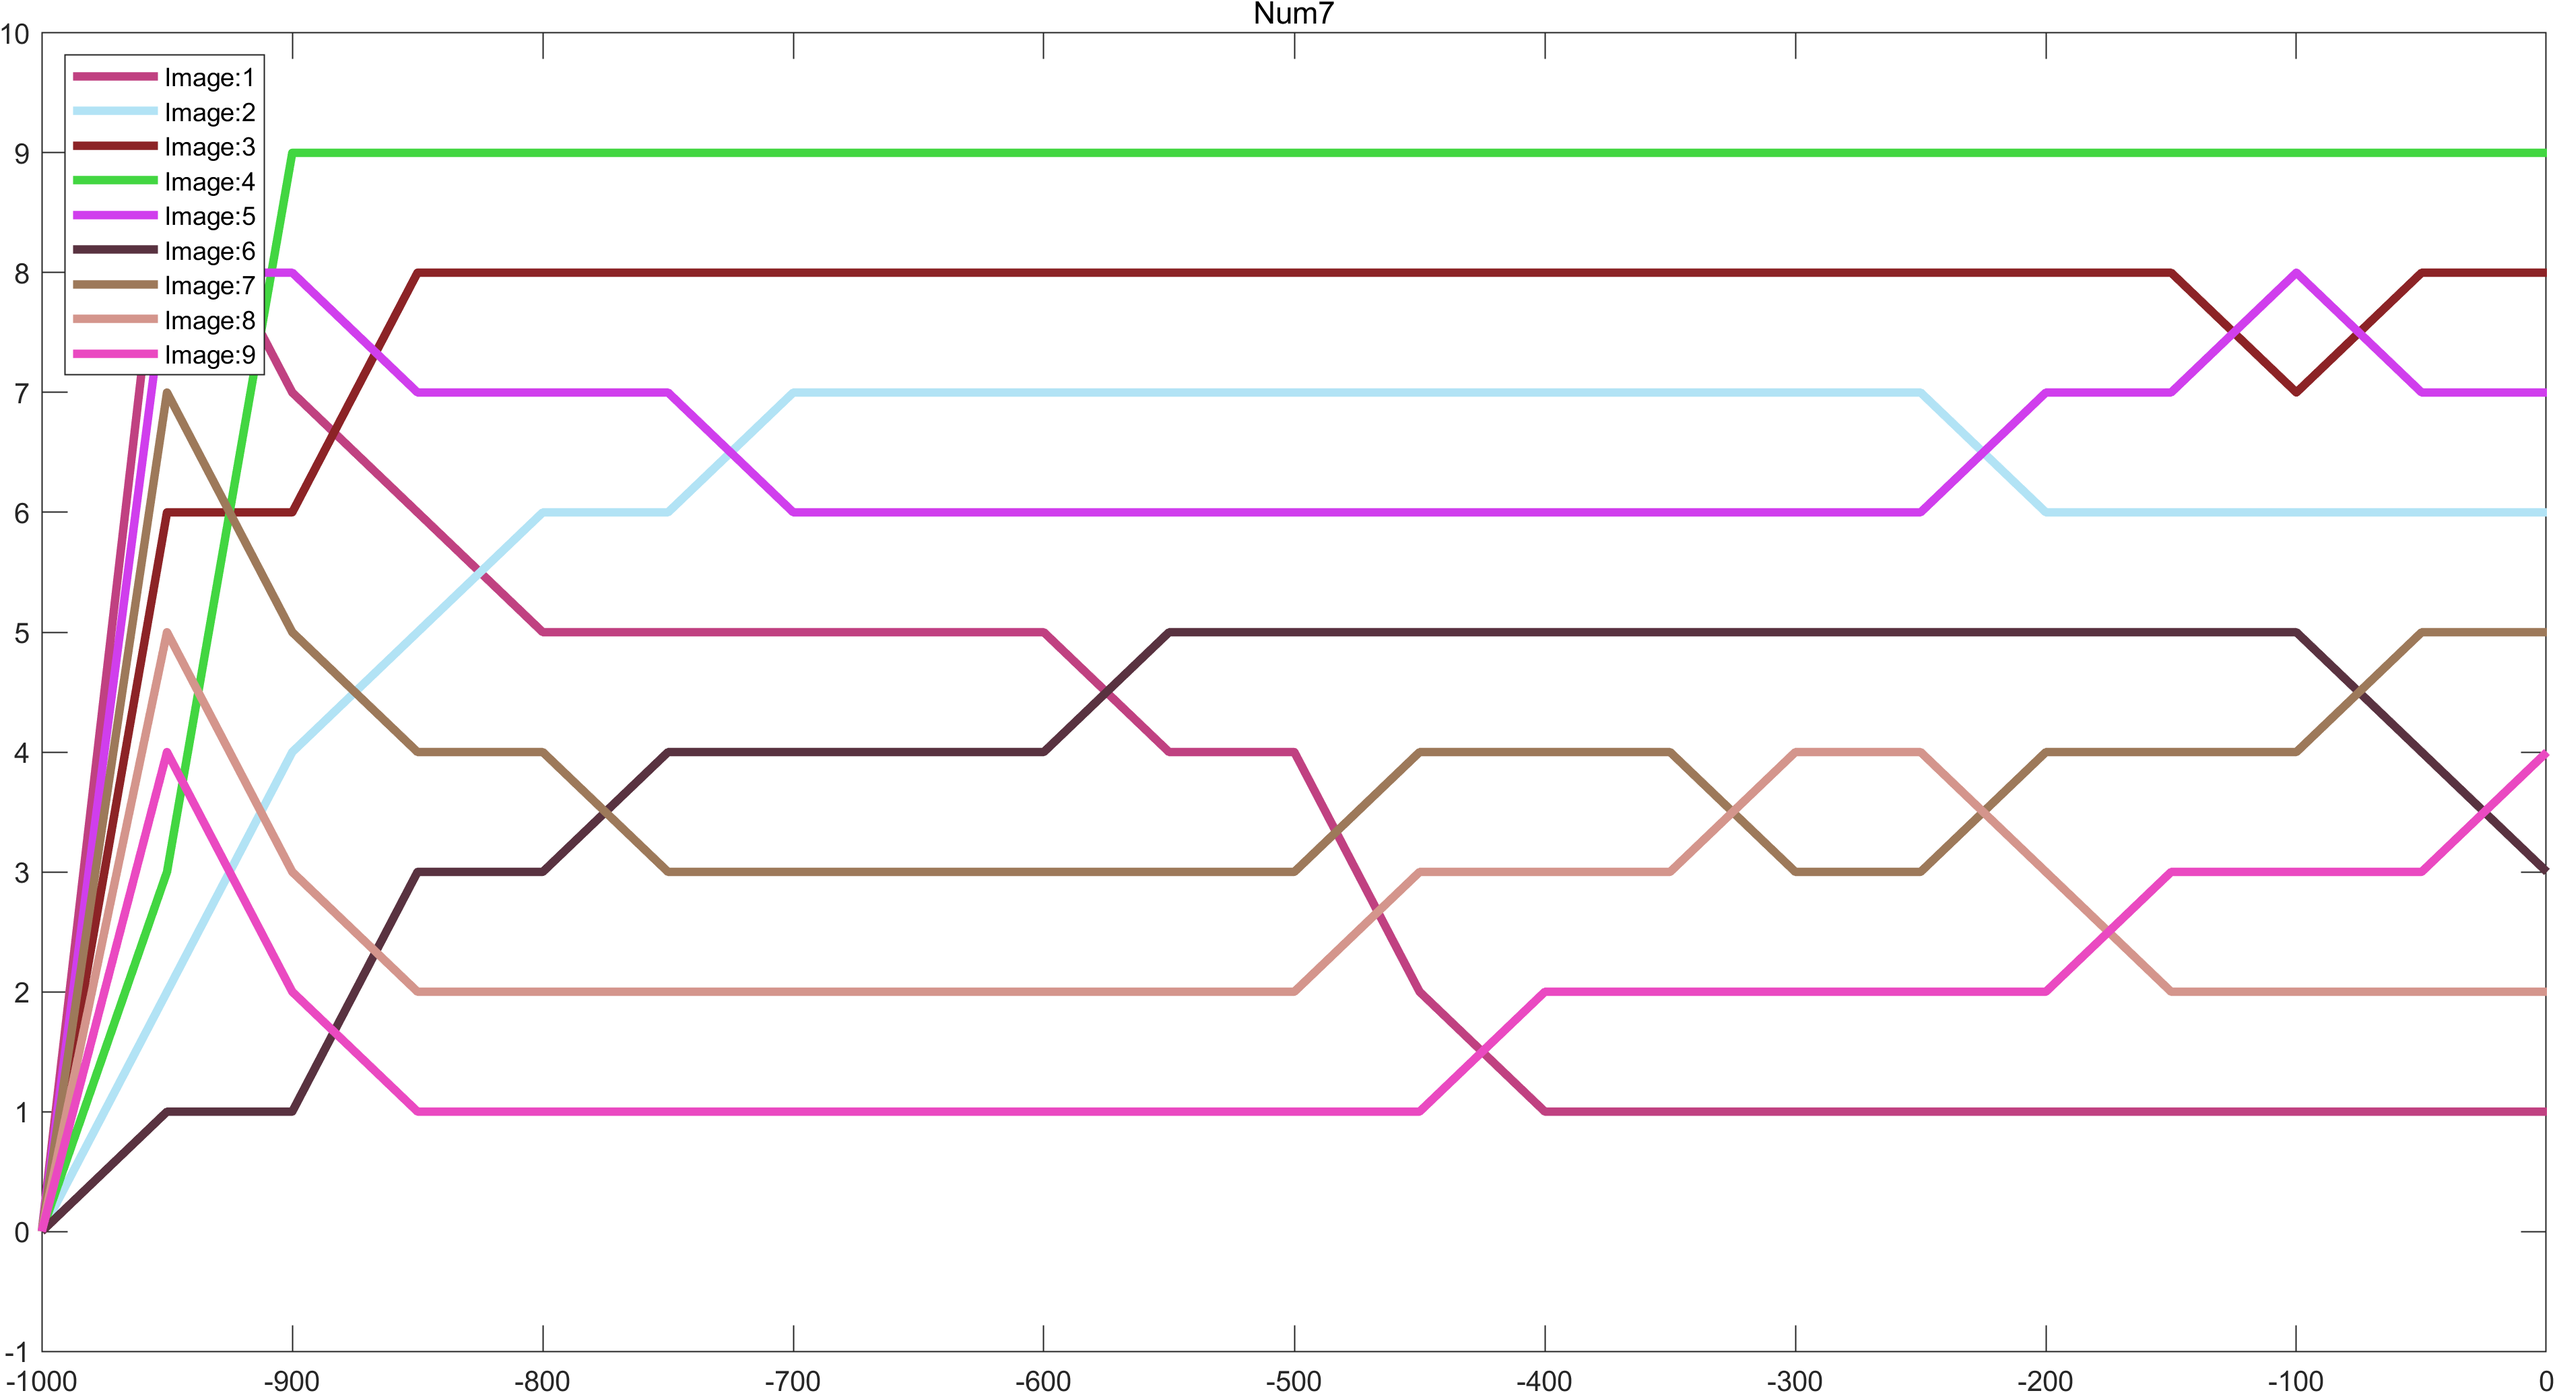
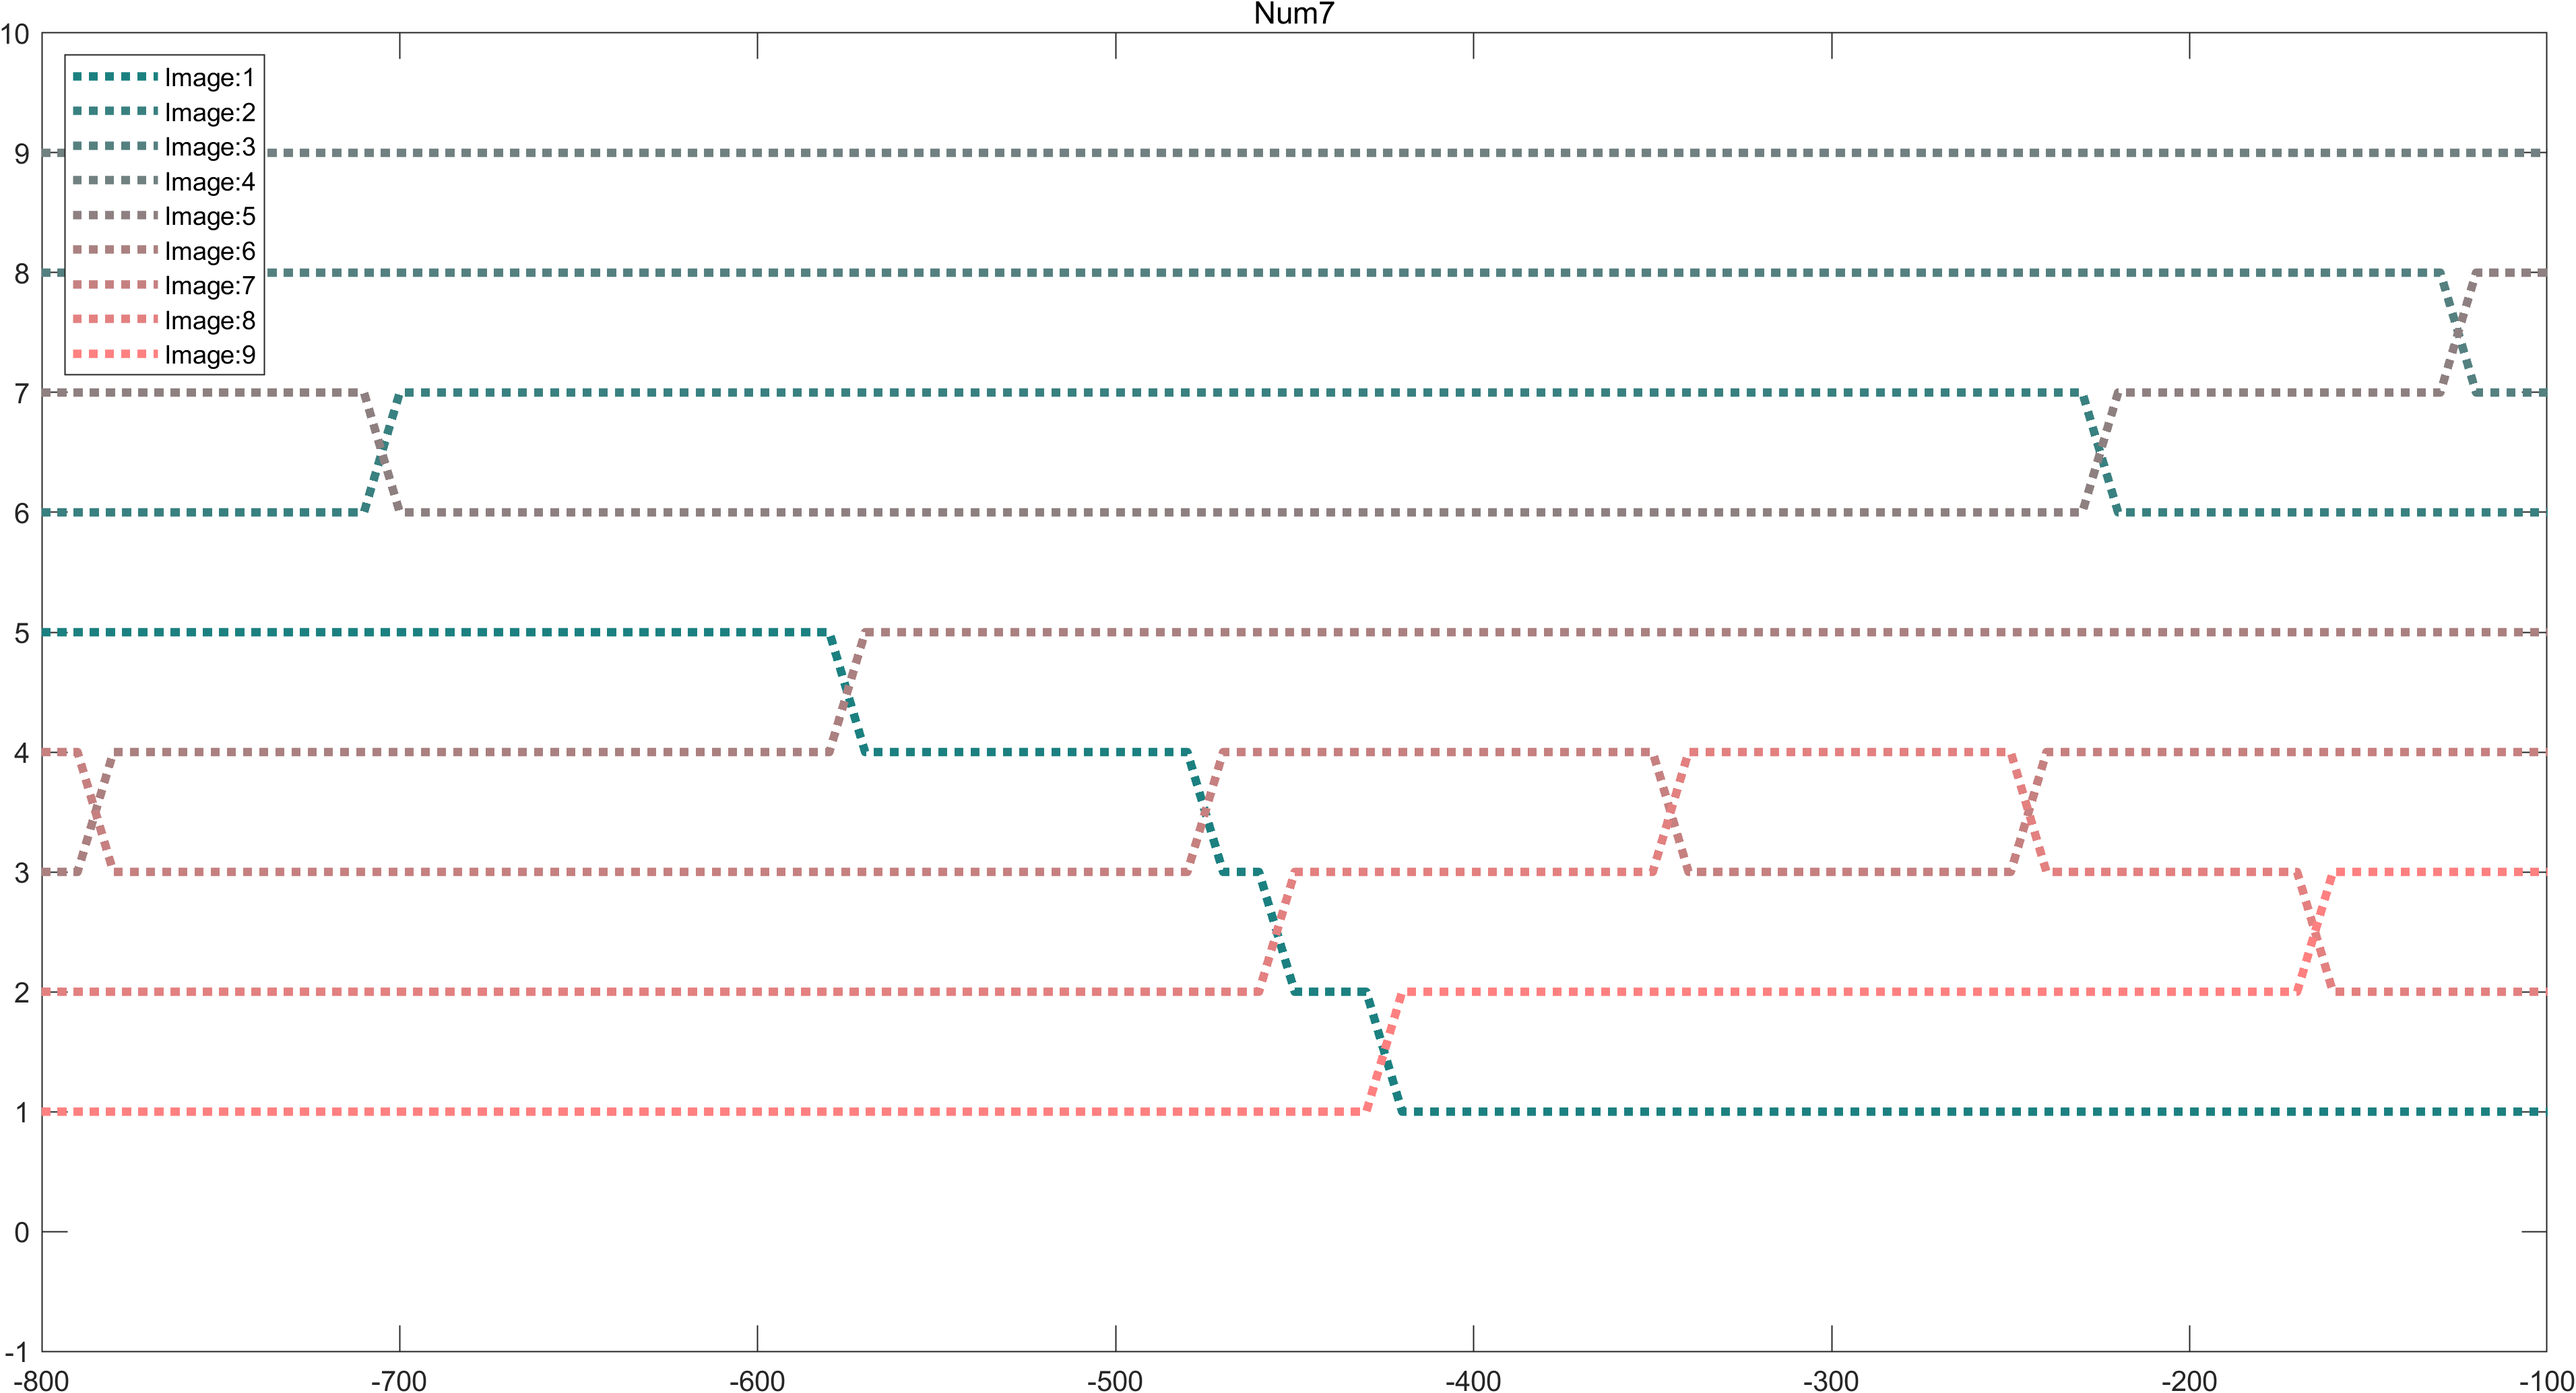
positive-image

diff --git a/code/matlab/Tool/sequence.m b/code/matlab/Tool/sequence.m
@@ -33,11 +33,17 @@ for k = 1:sz(2)
         
     end
 end
-out(:,1) = 0;
+% out(:,1) = 0;
+
+
 scrsz = get(0,'ScreenSize'); %%%% 获取屏幕的尺寸
 figure1=figure('Position',[0 30 scrsz(3) scrsz(4)-95]);
 for i = 1:sz(1)
-    plot(start + ((0:(sz(2)-1))*increase),out(i,:),'Color',[i/sz(1),0.5,0.5],'DisplayName',strcat('Image: ',num2str(i)),'LineWidth',3);
+%     total = 111/i;
+%     bai = fix(total/100);
+%     shi = fix((total-bai*100)/10)/10;
+%     ge = (total-bai*100-shi*100)/10;
+    plot(start + ((0:(sz(2)-1))*increase),out(i,:),'Color',[i/sz(1),0.5,0.5],'linestyle',':','DisplayName',strcat('Image: ',num2str(i)),'LineWidth',3);
     hold on 
 end
 legend('Location','northwest');

diff --git a/code/matlab/Tool/level_fordifferent_value.m b/code/matlab/Tool/level_fordifferent_value.m
@@ -6,12 +6,12 @@ clear all;close all;clc
 vertical_point = 100;
 
 % CBCT_index = [8,10,11,12,13,14,18,19,];
-CBCT_index = [24,25,26,28,29,30,31,32,33,35,36];
+CBCT_index = [24];
 use_fix = 0;
 con = [2,5];
 % CBCT_index = [3,7,9,15,16];
 sz_ind = size(CBCT_index);
-start = -1000; aim = 0; increase = 50;
+start = -800; aim = -100; increase = 10;
 % sz_index = size(CBCT_index);
 Time_of_smooth = 0;
 Judge = 1;
